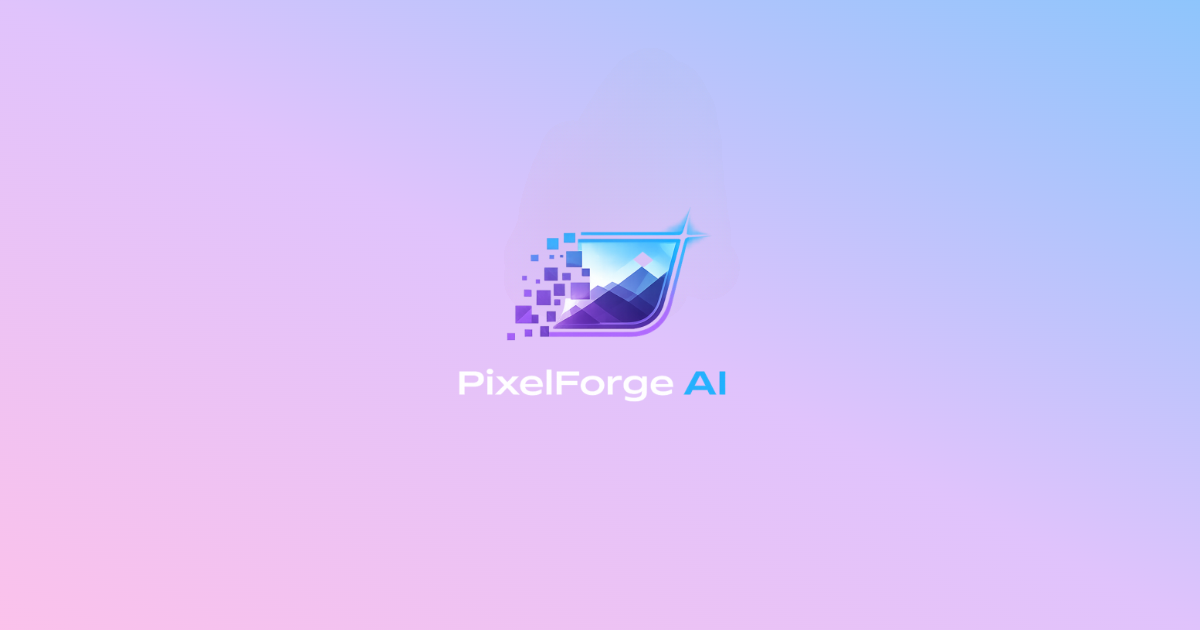
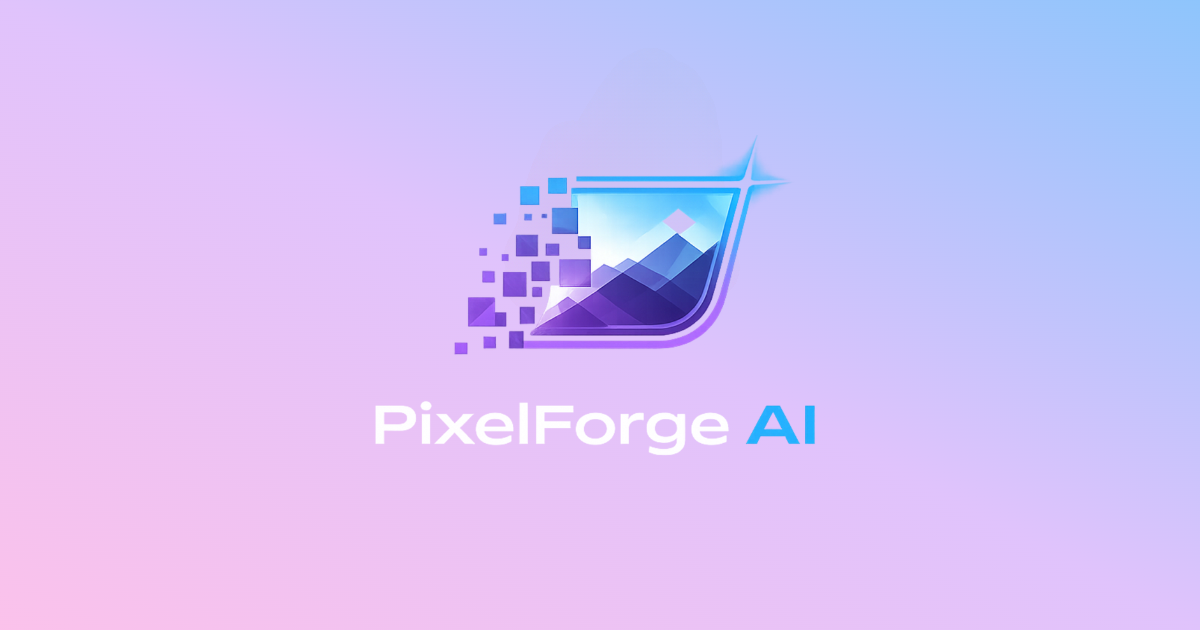
feat: polish cropping UI, update docs and OG image
* remove marching-ants animation via inline CSS for cleaner selection
* remove middle drag handles to simplify interaction
* refine crop selection visuals (border + box-shadow)
* clean up minor JSX formatting in CropImage component
* update README and docs/READMEcn to mark Crop Image as available (freeform + preset aspect ratios)
* replace frontend/public/og-image.png with updated OG image

Improves crop UX clarity and keeps documentation aligned with current functionality.

Changed region(s): [[0.3083, 0.2413, 0.6783, 0.7238]]

diff --git a/frontend/src/pages/SmartEdit/CropImage.jsx b/frontend/src/pages/SmartEdit/CropImage.jsx
@@ -321,25 +321,44 @@ const applyAspect = useCallback(
         {previewUrl && !resultUrl && (
             <div className="absolute inset-0 p-2 sm:p-3 bg-white">
             <div className="h-full w-full rounded-md border border-slate-200 bg-white overflow-hidden">
+                
+                <style>{`
+                  /* 1. Stop the marching ants jiggle */
+                  .ReactCrop__crop-selection {
+                    animation: none !important;
+                    background-image: none !important;
+                    border: 2px solid white !important;
+                    box-shadow: 0 0 5px rgba(0,0,0,0.3) !important;
+                  }
+                  
+                  /* 2. Hide the unnecessary middle edge boxes */
+                  .ReactCrop__drag-handle.ord-n,
+                  .ReactCrop__drag-handle.ord-e,
+                  .ReactCrop__drag-handle.ord-s,
+                  .ReactCrop__drag-handle.ord-w {
+                    display: none !important;
+                  }
+                `}</style>
+
                 <ReactCrop
-                crop={crop}
-                onChange={(nextCrop) => {
+                  crop={crop}
+                  onChange={(nextCrop) => {
                     setCrop(nextCrop);
                     cleanupResult();
-                }}
-                onComplete={(nextCompletedCrop) => setCompletedCrop(nextCompletedCrop)}
-                aspect={aspect || undefined}
-                className="h-full w-full"
+                  }}
+                  onComplete={(nextCompletedCrop) => setCompletedCrop(nextCompletedCrop)}
+                  aspect={aspect || undefined}
+                  className="h-full w-full"
                 >
-                <img
+                  <img
                     ref={imgRef}
                     alt="Crop preview"
                     src={previewUrl}
                     onLoad={onImageLoad}
                     className="block h-full w-full object-contain"
-                />
+                  />
                 </ReactCrop>
-            </div>
+              </div>
             </div>
         )}
         </PreviewImageBox>

diff --git a/README.md b/README.md
@@ -55,7 +55,7 @@ It combines <b>AI-powered processing via Replicate</b> (upscale, background remo
 9. 🧹 **Remove Metadata** — clean EXIF data  
 10. 🎯 **Color Palette Extractor** — draggable sampling points  
 11. 🏷️ **Add Watermark** — text/image with live preview  
-12. ✂️ **Crop Image** *(Coming Soon)*  
+12. ✂️ **Crop Image** — freeform or preset aspect ratios
 13. 🖼️ **Thumbnail Maker** *(Coming Soon)*  
 
 ### B) Platform / Security / Workflow